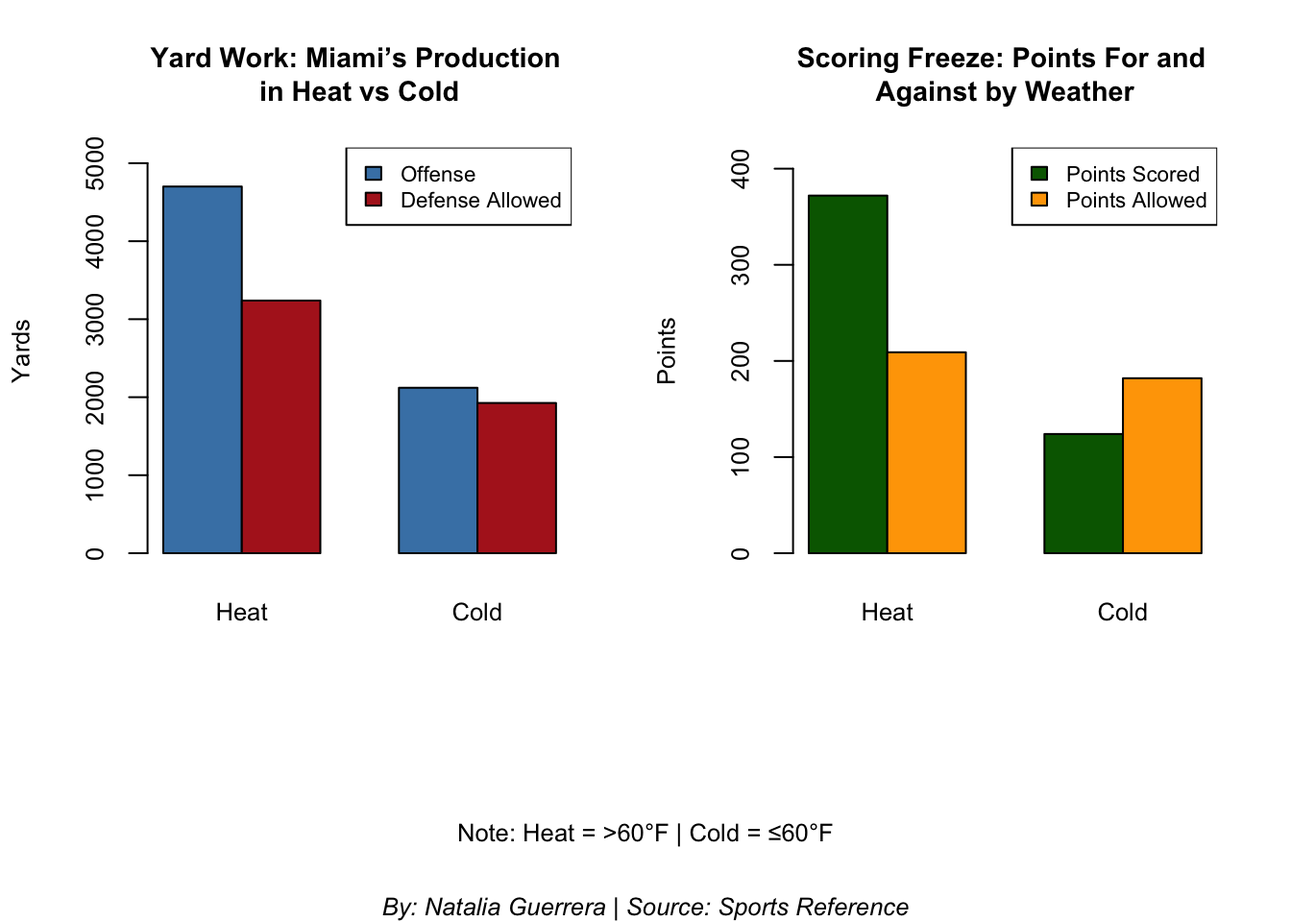
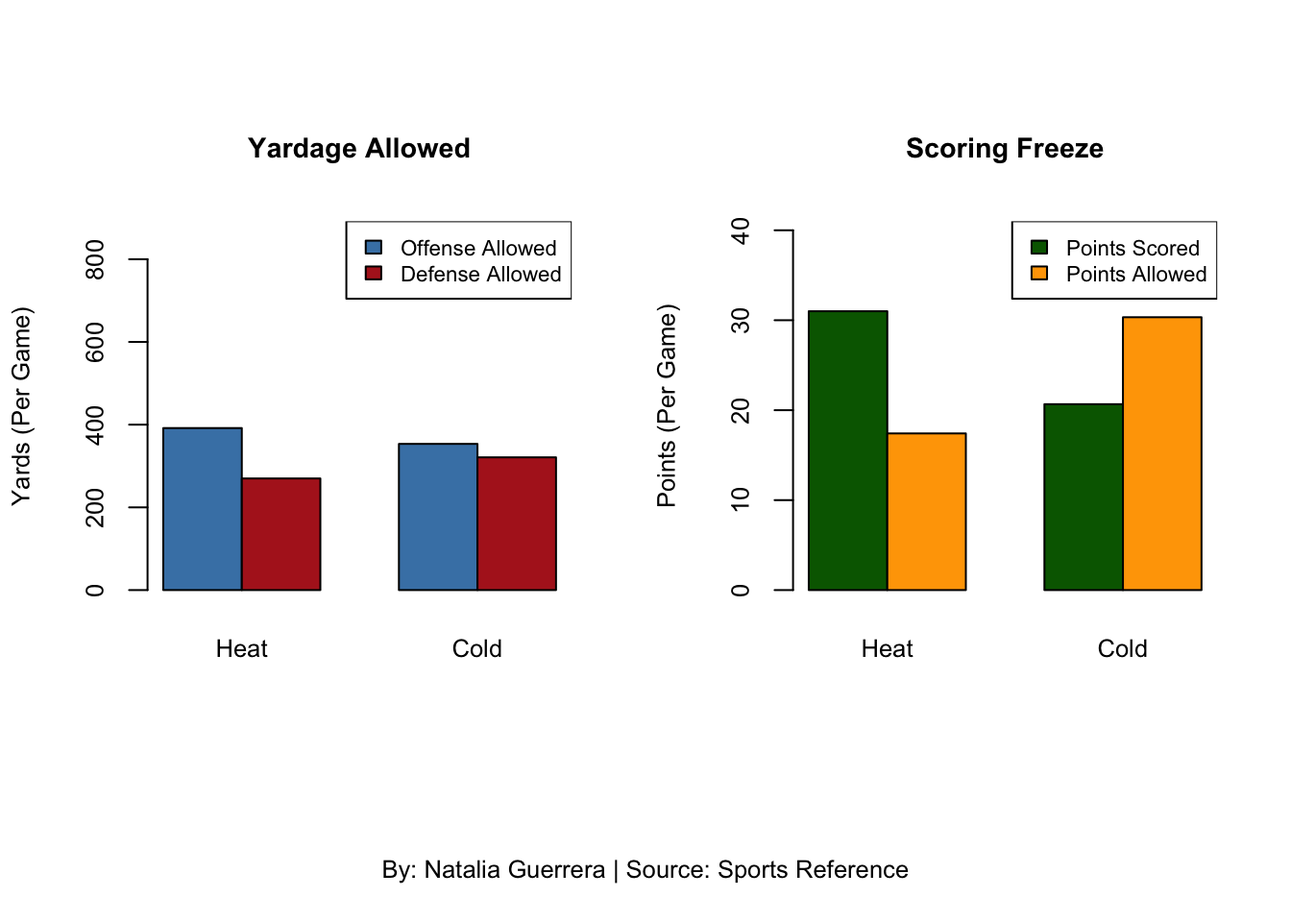
made change

diff --git a/posts/miami-dolphins-nfl/index2.html b/posts/miami-dolphins-nfl/index2.html
@@ -190,7 +190,7 @@ pre > code.sourceCode > span > a:first-child::before { text-decoration: underlin
 
 
 
-<p>The Miami Dolphins continue through their seasons known for their home-field advantage with the Florida heat. With blazing temperatures and clear skies, they looked unstoppable early on—putting up huge yardage and dominating opponents at home. But as the season cooled down, so did their production. The team that seemed untouchable in the sun began to struggle in colder weather conditions. As the playoffs loomed, a new question surfaced: were the Dolphins actually a bad weather fraud?</p>
+<p>The Miami Dolphins continue through their seasons known for their home-field advantage with the Florida heat. With blazing temperatures and clear skies, they looked unstoppable after dominating opponents when it is warm. As the season cooled down, so did their production. The team that seemed untouchable in the sun began to struggle in colder weather conditions. This brings up the question: Is Miami’s Offense Actually a Bad Weather Fraud?</p>
 <div class="cell">
 <details class="code-fold">
 <summary>Code</summary>
@@ -247,32 +247,38 @@ pre > code.sourceCode > span > a:first-child::before { text-decoration: underlin
 </div>
 </div>
 </div>
-<p>The line graph illustrates how weather impacts scoring by quarter. In good weather, teams score steadily across all four quarters, with noticeable peaks in the second. In contrast, bad weather suppresses scoring in the early quarters. Interestingly, there’s a spike in the fourth quarter during bad weather games—suggesting late-game urgency or defensive fatigue may influence outcomes despite poor conditions.</p>
+<p>The line graph illustrates how weather impacts scoring by quarter. In good weather, teams score steadily across all four quarters, with noticeable peaks in the second. In contrast, bad weather suppresses scoring in the early quarters. Interestingly, there’s a spike in the fourth quarter during bad weather games that suggest late-game urgency or defensive fatigue may influence outcomes despite poor conditions.</p>
 <div class="cell">
 <details class="code-fold">
 <summary>Code</summary>
-<div class="sourceCode cell-code" id="cb2"><pre class="sourceCode r code-with-copy"><code class="sourceCode r"><span id="cb2-1"><a href="#cb2-1" aria-hidden="true" tabindex="-1"></a>cold_weather_summary <span class="ot">&lt;-</span> <span class="fu">data.frame</span>(</span>
-<span id="cb2-2"><a href="#cb2-2" aria-hidden="true" tabindex="-1"></a>  <span class="at">Temperature_Range =</span> <span class="fu">c</span>(<span class="st">"≤ 40°F"</span>, <span class="st">"≤ 23°F"</span>),</span>
-<span id="cb2-3"><a href="#cb2-3" aria-hidden="true" tabindex="-1"></a>  <span class="at">Wins =</span> <span class="fu">c</span>(<span class="dv">0</span>, <span class="dv">3</span>),</span>
-<span id="cb2-4"><a href="#cb2-4" aria-hidden="true" tabindex="-1"></a>  <span class="at">Losses =</span> <span class="fu">c</span>(<span class="dv">11</span>, <span class="dv">7</span>)</span>
-<span id="cb2-5"><a href="#cb2-5" aria-hidden="true" tabindex="-1"></a>)</span>
-<span id="cb2-6"><a href="#cb2-6" aria-hidden="true" tabindex="-1"></a></span>
-<span id="cb2-7"><a href="#cb2-7" aria-hidden="true" tabindex="-1"></a><span class="fu">library</span>(tidyr)</span>
-<span id="cb2-8"><a href="#cb2-8" aria-hidden="true" tabindex="-1"></a>cold_weather_long <span class="ot">&lt;-</span> <span class="fu">pivot_longer</span>(cold_weather_summary, <span class="at">cols =</span> <span class="fu">c</span>(<span class="st">"Wins"</span>, <span class="st">"Losses"</span>),</span>
-<span id="cb2-9"><a href="#cb2-9" aria-hidden="true" tabindex="-1"></a>                                   <span class="at">names_to =</span> <span class="st">"Result"</span>, <span class="at">values_to =</span> <span class="st">"Games"</span>)</span>
-<span id="cb2-10"><a href="#cb2-10" aria-hidden="true" tabindex="-1"></a></span>
-<span id="cb2-11"><a href="#cb2-11" aria-hidden="true" tabindex="-1"></a><span class="fu">library</span>(ggplot2)</span>
-<span id="cb2-12"><a href="#cb2-12" aria-hidden="true" tabindex="-1"></a><span class="fu">ggplot</span>(cold_weather_long, <span class="fu">aes</span>(<span class="at">x =</span> Temperature_Range, <span class="at">y =</span> Games, <span class="at">fill =</span> Result)) <span class="sc">+</span></span>
-<span id="cb2-13"><a href="#cb2-13" aria-hidden="true" tabindex="-1"></a>  <span class="fu">geom_bar</span>(<span class="at">stat =</span> <span class="st">"identity"</span>, <span class="at">position =</span> <span class="st">"stack"</span>) <span class="sc">+</span></span>
-<span id="cb2-14"><a href="#cb2-14" aria-hidden="true" tabindex="-1"></a>  <span class="fu">scale_fill_manual</span>(<span class="at">values =</span> <span class="fu">c</span>(<span class="st">"Wins"</span> <span class="ot">=</span> <span class="st">"#008E97"</span>, <span class="st">"Losses"</span> <span class="ot">=</span> <span class="st">"#FC4C02"</span>)) <span class="sc">+</span></span>
-<span id="cb2-15"><a href="#cb2-15" aria-hidden="true" tabindex="-1"></a>  <span class="fu">labs</span>(<span class="at">title =</span> <span class="st">"Freezing the Fins: Miami’s Cold-Weather Curse"</span>,</span>
-<span id="cb2-16"><a href="#cb2-16" aria-hidden="true" tabindex="-1"></a>       <span class="at">subtitle =</span> <span class="st">"A look at how the Dolphins perform when temperatures </span></span>
-<span id="cb2-17"><a href="#cb2-17" aria-hidden="true" tabindex="-1"></a><span class="st">drop below comfort zone."</span>,</span>
-<span id="cb2-18"><a href="#cb2-18" aria-hidden="true" tabindex="-1"></a>       <span class="at">x =</span> <span class="st">"Temperature at Kickoff"</span>,</span>
-<span id="cb2-19"><a href="#cb2-19" aria-hidden="true" tabindex="-1"></a>       <span class="at">y =</span> <span class="st">"Number of Games"</span>,</span>
-<span id="cb2-20"><a href="#cb2-20" aria-hidden="true" tabindex="-1"></a>      <span class="at">caption =</span> <span class="st">"By Natalia Guerrera | Source: Sports Reference"</span>,</span>
-<span id="cb2-21"><a href="#cb2-21" aria-hidden="true" tabindex="-1"></a>       <span class="at">fill =</span> <span class="st">"Game Result"</span>) <span class="sc">+</span></span>
-<span id="cb2-22"><a href="#cb2-22" aria-hidden="true" tabindex="-1"></a>  <span class="fu">theme_minimal</span>(<span class="at">base_size =</span> <span class="dv">14</span>)</span></code><button title="Copy to Clipboard" class="code-copy-button"><i class="bi"></i></button></pre></div>
+<div class="sourceCode cell-code" id="cb2"><pre class="sourceCode r code-with-copy"><code class="sourceCode r"><span id="cb2-1"><a href="#cb2-1" aria-hidden="true" tabindex="-1"></a><span class="fu">library</span>(tidyr)</span>
+<span id="cb2-2"><a href="#cb2-2" aria-hidden="true" tabindex="-1"></a></span>
+<span id="cb2-3"><a href="#cb2-3" aria-hidden="true" tabindex="-1"></a>cold_weather_summary <span class="ot">&lt;-</span> <span class="fu">data.frame</span>(</span>
+<span id="cb2-4"><a href="#cb2-4" aria-hidden="true" tabindex="-1"></a>  <span class="at">Temperature_Range =</span> <span class="fu">c</span>(<span class="st">"45 degrees or less"</span>, <span class="st">"Greater than 45 degrees"</span>),</span>
+<span id="cb2-5"><a href="#cb2-5" aria-hidden="true" tabindex="-1"></a>  <span class="at">Wins =</span> <span class="fu">c</span>(<span class="dv">0</span>, <span class="dv">36</span>),</span>
+<span id="cb2-6"><a href="#cb2-6" aria-hidden="true" tabindex="-1"></a>  <span class="at">Losses =</span> <span class="fu">c</span>(<span class="dv">8</span>, <span class="dv">16</span>)</span>
+<span id="cb2-7"><a href="#cb2-7" aria-hidden="true" tabindex="-1"></a>)</span>
+<span id="cb2-8"><a href="#cb2-8" aria-hidden="true" tabindex="-1"></a></span>
+<span id="cb2-9"><a href="#cb2-9" aria-hidden="true" tabindex="-1"></a>cold_weather_long <span class="ot">&lt;-</span> <span class="fu">pivot_longer</span>(</span>
+<span id="cb2-10"><a href="#cb2-10" aria-hidden="true" tabindex="-1"></a>  cold_weather_summary,</span>
+<span id="cb2-11"><a href="#cb2-11" aria-hidden="true" tabindex="-1"></a>  <span class="at">cols =</span> <span class="fu">c</span>(<span class="st">"Wins"</span>, <span class="st">"Losses"</span>),</span>
+<span id="cb2-12"><a href="#cb2-12" aria-hidden="true" tabindex="-1"></a>  <span class="at">names_to =</span> <span class="st">"Result"</span>,</span>
+<span id="cb2-13"><a href="#cb2-13" aria-hidden="true" tabindex="-1"></a>  <span class="at">values_to =</span> <span class="st">"Games"</span></span>
+<span id="cb2-14"><a href="#cb2-14" aria-hidden="true" tabindex="-1"></a>)</span>
+<span id="cb2-15"><a href="#cb2-15" aria-hidden="true" tabindex="-1"></a></span>
+<span id="cb2-16"><a href="#cb2-16" aria-hidden="true" tabindex="-1"></a><span class="fu">ggplot</span>(cold_weather_long, <span class="fu">aes</span>(<span class="at">x =</span> Temperature_Range, <span class="at">y =</span> Games, <span class="at">fill =</span> Result)) <span class="sc">+</span></span>
+<span id="cb2-17"><a href="#cb2-17" aria-hidden="true" tabindex="-1"></a>  <span class="fu">geom_bar</span>(<span class="at">stat =</span> <span class="st">"identity"</span>, <span class="at">position =</span> <span class="st">"stack"</span>) <span class="sc">+</span></span>
+<span id="cb2-18"><a href="#cb2-18" aria-hidden="true" tabindex="-1"></a>  <span class="fu">scale_fill_manual</span>(<span class="at">values =</span> <span class="fu">c</span>(<span class="st">"Wins"</span> <span class="ot">=</span> <span class="st">"#008E97"</span>, <span class="st">"Losses"</span> <span class="ot">=</span> <span class="st">"#FC4C02"</span>)) <span class="sc">+</span></span>
+<span id="cb2-19"><a href="#cb2-19" aria-hidden="true" tabindex="-1"></a>  <span class="fu">labs</span>(</span>
+<span id="cb2-20"><a href="#cb2-20" aria-hidden="true" tabindex="-1"></a>    <span class="at">title =</span> <span class="st">"Tua Tagovailoa’s Cold Weather Struggles"</span>,</span>
+<span id="cb2-21"><a href="#cb2-21" aria-hidden="true" tabindex="-1"></a>    <span class="at">subtitle =</span> <span class="st">"Tua is 0-8 when the temperature is 45°F or colder and </span></span>
+<span id="cb2-22"><a href="#cb2-22" aria-hidden="true" tabindex="-1"></a><span class="st">36-16 when it's greater than 45°F."</span>,</span>
+<span id="cb2-23"><a href="#cb2-23" aria-hidden="true" tabindex="-1"></a>    <span class="at">x =</span> <span class="st">"Temperature at Kickoff"</span>,</span>
+<span id="cb2-24"><a href="#cb2-24" aria-hidden="true" tabindex="-1"></a>    <span class="at">y =</span> <span class="st">"Number of Games"</span>,</span>
+<span id="cb2-25"><a href="#cb2-25" aria-hidden="true" tabindex="-1"></a>    <span class="at">caption =</span> <span class="st">"By Natalia Guerrera | Source: Sports Reference"</span>,</span>
+<span id="cb2-26"><a href="#cb2-26" aria-hidden="true" tabindex="-1"></a>    <span class="at">fill =</span> <span class="st">"Game Result"</span></span>
+<span id="cb2-27"><a href="#cb2-27" aria-hidden="true" tabindex="-1"></a>  ) <span class="sc">+</span></span>
+<span id="cb2-28"><a href="#cb2-28" aria-hidden="true" tabindex="-1"></a>  <span class="fu">theme_minimal</span>(<span class="at">base_size =</span> <span class="dv">14</span>)</span></code><button title="Copy to Clipboard" class="code-copy-button"><i class="bi"></i></button></pre></div>
 </details>
 <div class="cell-output-display">
 <div>
@@ -282,7 +288,7 @@ pre > code.sourceCode > span > a:first-child::before { text-decoration: underlin
 </div>
 </div>
 </div>
-<p>This graph highlights Tua Tagovailoa struggles in cold weather, particularly when temperatures dip below 40°F. The Dolphins have yet to win a game in these freezing conditions (0–11) and fare only slightly better when it’s extremely cold (≤ 23°F), with 3 wins and 7 losses. The data reinforces that Miami’s performance drops significantly as the thermometer does.</p>
+<p>This graph higlights Tua Tagavailoa’s struggle when it comes to weather that is less than 45 degrees at kickoff. In cold conditions, he has yet to win a game, going 0-8 over his career. When the temperature is greater than 45 degrees, Tagovailoa has a strong 36-16 record, showing a clear performance gap due to climate.</p>
 <div class="cell">
 <details class="code-fold">
 <summary>Code</summary>
@@ -293,42 +299,41 @@ pre > code.sourceCode > span > a:first-child::before { text-decoration: underlin
 <span id="cb3-5"><a href="#cb3-5" aria-hidden="true" tabindex="-1"></a>points_scored <span class="ot">&lt;-</span> <span class="fu">c</span>(<span class="dv">372</span>, <span class="dv">124</span>)</span>
 <span id="cb3-6"><a href="#cb3-6" aria-hidden="true" tabindex="-1"></a>points_allowed <span class="ot">&lt;-</span> <span class="fu">c</span>(<span class="dv">209</span>, <span class="dv">182</span>)</span>
 <span id="cb3-7"><a href="#cb3-7" aria-hidden="true" tabindex="-1"></a></span>
-<span id="cb3-8"><a href="#cb3-8" aria-hidden="true" tabindex="-1"></a><span class="fu">par</span>(<span class="at">mfrow =</span> <span class="fu">c</span>(<span class="dv">1</span>, <span class="dv">2</span>), <span class="at">oma =</span> <span class="fu">c</span>(<span class="dv">4</span>, <span class="dv">0</span>, <span class="dv">2</span>, <span class="dv">0</span>), <span class="at">mar =</span> <span class="fu">c</span>(<span class="dv">5</span>, <span class="dv">4</span>, <span class="dv">4</span>, <span class="dv">2</span>), <span class="at">cex.main =</span> <span class="fl">0.9</span>, <span class="at">cex.lab =</span> <span class="fl">0.8</span>, <span class="at">cex.axis =</span> <span class="fl">0.8</span>)</span>
-<span id="cb3-9"><a href="#cb3-9" aria-hidden="true" tabindex="-1"></a><span class="fu">par</span>(<span class="at">mfrow =</span> <span class="fu">c</span>(<span class="dv">1</span>, <span class="dv">2</span>), <span class="at">mar =</span> <span class="fu">c</span>(<span class="dv">5</span>, <span class="dv">4</span>, <span class="dv">4</span>, <span class="dv">2</span>), <span class="at">oma =</span> <span class="fu">c</span>(<span class="dv">5</span>, <span class="dv">0</span>, <span class="dv">0</span>, <span class="dv">0</span>)) </span>
-<span id="cb3-10"><a href="#cb3-10" aria-hidden="true" tabindex="-1"></a></span>
-<span id="cb3-11"><a href="#cb3-11" aria-hidden="true" tabindex="-1"></a></span>
-<span id="cb3-12"><a href="#cb3-12" aria-hidden="true" tabindex="-1"></a><span class="co"># Barplot 1: Yards</span></span>
-<span id="cb3-13"><a href="#cb3-13" aria-hidden="true" tabindex="-1"></a><span class="fu">barplot</span>(</span>
-<span id="cb3-14"><a href="#cb3-14" aria-hidden="true" tabindex="-1"></a>  <span class="fu">rbind</span>(offense_yards, defense_yards),</span>
-<span id="cb3-15"><a href="#cb3-15" aria-hidden="true" tabindex="-1"></a>  <span class="at">beside =</span> <span class="cn">TRUE</span>,</span>
-<span id="cb3-16"><a href="#cb3-16" aria-hidden="true" tabindex="-1"></a>  <span class="at">col =</span> <span class="fu">c</span>(<span class="st">"steelblue"</span>, <span class="st">"firebrick"</span>),</span>
-<span id="cb3-17"><a href="#cb3-17" aria-hidden="true" tabindex="-1"></a>  <span class="at">names.arg =</span> weather,</span>
-<span id="cb3-18"><a href="#cb3-18" aria-hidden="true" tabindex="-1"></a>  <span class="at">ylim =</span> <span class="fu">c</span>(<span class="dv">0</span>, <span class="fu">max</span>(offense_yards) <span class="sc">+</span> <span class="dv">500</span>),</span>
-<span id="cb3-19"><a href="#cb3-19" aria-hidden="true" tabindex="-1"></a>  <span class="at">main =</span> <span class="st">"Yard Work: Miami’s Production </span></span>
-<span id="cb3-20"><a href="#cb3-20" aria-hidden="true" tabindex="-1"></a><span class="st">in Heat vs Cold"</span>,</span>
-<span id="cb3-21"><a href="#cb3-21" aria-hidden="true" tabindex="-1"></a>  <span class="at">ylab =</span> <span class="st">"Yards"</span>,</span>
-<span id="cb3-22"><a href="#cb3-22" aria-hidden="true" tabindex="-1"></a>  <span class="at">cex.names =</span> <span class="fl">0.8</span></span>
-<span id="cb3-23"><a href="#cb3-23" aria-hidden="true" tabindex="-1"></a>)</span>
-<span id="cb3-24"><a href="#cb3-24" aria-hidden="true" tabindex="-1"></a><span class="fu">legend</span>(<span class="st">"topright"</span>, <span class="at">legend =</span> <span class="fu">c</span>(<span class="st">"Offense"</span>, <span class="st">"Defense Allowed"</span>), <span class="at">fill =</span> <span class="fu">c</span>(<span class="st">"steelblue"</span>, <span class="st">"firebrick"</span>), <span class="at">cex =</span> <span class="fl">0.7</span>)</span>
-<span id="cb3-25"><a href="#cb3-25" aria-hidden="true" tabindex="-1"></a></span>
-<span id="cb3-26"><a href="#cb3-26" aria-hidden="true" tabindex="-1"></a><span class="co"># Barplot 2: Points</span></span>
-<span id="cb3-27"><a href="#cb3-27" aria-hidden="true" tabindex="-1"></a><span class="fu">barplot</span>(</span>
-<span id="cb3-28"><a href="#cb3-28" aria-hidden="true" tabindex="-1"></a>  <span class="fu">rbind</span>(points_scored, points_allowed),</span>
-<span id="cb3-29"><a href="#cb3-29" aria-hidden="true" tabindex="-1"></a>  <span class="at">beside =</span> <span class="cn">TRUE</span>,</span>
-<span id="cb3-30"><a href="#cb3-30" aria-hidden="true" tabindex="-1"></a>  <span class="at">col =</span> <span class="fu">c</span>(<span class="st">"darkgreen"</span>, <span class="st">"orange"</span>),</span>
-<span id="cb3-31"><a href="#cb3-31" aria-hidden="true" tabindex="-1"></a>  <span class="at">names.arg =</span> weather,</span>
-<span id="cb3-32"><a href="#cb3-32" aria-hidden="true" tabindex="-1"></a>  <span class="at">ylim =</span> <span class="fu">c</span>(<span class="dv">0</span>, <span class="fu">max</span>(points_scored) <span class="sc">+</span> <span class="dv">50</span>),</span>
-<span id="cb3-33"><a href="#cb3-33" aria-hidden="true" tabindex="-1"></a>  <span class="at">main =</span> <span class="st">"Scoring Freeze: Points For and </span></span>
-<span id="cb3-34"><a href="#cb3-34" aria-hidden="true" tabindex="-1"></a><span class="st">Against by Weather"</span>,</span>
-<span id="cb3-35"><a href="#cb3-35" aria-hidden="true" tabindex="-1"></a>  <span class="at">ylab =</span> <span class="st">"Points"</span>,</span>
+<span id="cb3-8"><a href="#cb3-8" aria-hidden="true" tabindex="-1"></a>games_heat <span class="ot">&lt;-</span> <span class="dv">12</span>     </span>
+<span id="cb3-9"><a href="#cb3-9" aria-hidden="true" tabindex="-1"></a>games_cold <span class="ot">&lt;-</span> <span class="dv">6</span>     </span>
+<span id="cb3-10"><a href="#cb3-10" aria-hidden="true" tabindex="-1"></a>avg_offense_yards <span class="ot">&lt;-</span> <span class="fu">c</span>(offense_yards[<span class="dv">1</span>] <span class="sc">/</span> games_heat, offense_yards[<span class="dv">2</span>] <span class="sc">/</span> games_cold)</span>
+<span id="cb3-11"><a href="#cb3-11" aria-hidden="true" tabindex="-1"></a>avg_defense_yards <span class="ot">&lt;-</span> <span class="fu">c</span>(defense_yards[<span class="dv">1</span>] <span class="sc">/</span> games_heat, defense_yards[<span class="dv">2</span>] <span class="sc">/</span> games_cold)</span>
+<span id="cb3-12"><a href="#cb3-12" aria-hidden="true" tabindex="-1"></a>avg_points_scored <span class="ot">&lt;-</span> <span class="fu">c</span>(points_scored[<span class="dv">1</span>] <span class="sc">/</span> games_heat, points_scored[<span class="dv">2</span>] <span class="sc">/</span> games_cold)</span>
+<span id="cb3-13"><a href="#cb3-13" aria-hidden="true" tabindex="-1"></a>avg_points_allowed <span class="ot">&lt;-</span> <span class="fu">c</span>(points_allowed[<span class="dv">1</span>] <span class="sc">/</span> games_heat, points_allowed[<span class="dv">2</span>] <span class="sc">/</span> games_cold)</span>
+<span id="cb3-14"><a href="#cb3-14" aria-hidden="true" tabindex="-1"></a><span class="fu">par</span>(<span class="at">mfrow =</span> <span class="fu">c</span>(<span class="dv">1</span>, <span class="dv">2</span>), <span class="at">oma =</span> <span class="fu">c</span>(<span class="dv">4</span>, <span class="dv">0</span>, <span class="dv">2</span>, <span class="dv">0</span>), <span class="at">mar =</span> <span class="fu">c</span>(<span class="dv">5</span>, <span class="dv">4</span>, <span class="dv">4</span>, <span class="dv">2</span>), <span class="at">cex.main =</span> <span class="fl">0.9</span>, <span class="at">cex.lab =</span> <span class="fl">0.8</span>, <span class="at">cex.axis =</span> <span class="fl">0.8</span>)</span>
+<span id="cb3-15"><a href="#cb3-15" aria-hidden="true" tabindex="-1"></a></span>
+<span id="cb3-16"><a href="#cb3-16" aria-hidden="true" tabindex="-1"></a><span class="fu">barplot</span>(</span>
+<span id="cb3-17"><a href="#cb3-17" aria-hidden="true" tabindex="-1"></a>  <span class="fu">rbind</span>(avg_offense_yards, avg_defense_yards),</span>
+<span id="cb3-18"><a href="#cb3-18" aria-hidden="true" tabindex="-1"></a>  <span class="at">beside =</span> <span class="cn">TRUE</span>,</span>
+<span id="cb3-19"><a href="#cb3-19" aria-hidden="true" tabindex="-1"></a>  <span class="at">col =</span> <span class="fu">c</span>(<span class="st">"steelblue"</span>, <span class="st">"firebrick"</span>),</span>
+<span id="cb3-20"><a href="#cb3-20" aria-hidden="true" tabindex="-1"></a>  <span class="at">names.arg =</span> weather,</span>
+<span id="cb3-21"><a href="#cb3-21" aria-hidden="true" tabindex="-1"></a>  <span class="at">ylim =</span> <span class="fu">c</span>(<span class="dv">0</span>, <span class="fu">max</span>(avg_offense_yards) <span class="sc">+</span> <span class="dv">500</span>),</span>
+<span id="cb3-22"><a href="#cb3-22" aria-hidden="true" tabindex="-1"></a>  <span class="at">main =</span> <span class="st">"Yardage Allowed"</span>,</span>
+<span id="cb3-23"><a href="#cb3-23" aria-hidden="true" tabindex="-1"></a>  <span class="at">ylab =</span> <span class="st">"Yards (Per Game)"</span>,</span>
+<span id="cb3-24"><a href="#cb3-24" aria-hidden="true" tabindex="-1"></a>  <span class="at">cex.names =</span> <span class="fl">0.8</span></span>
+<span id="cb3-25"><a href="#cb3-25" aria-hidden="true" tabindex="-1"></a>)</span>
+<span id="cb3-26"><a href="#cb3-26" aria-hidden="true" tabindex="-1"></a><span class="fu">legend</span>(<span class="st">"topright"</span>, <span class="at">legend =</span> <span class="fu">c</span>(<span class="st">"Offense Allowed"</span>, <span class="st">"Defense Allowed"</span>), <span class="at">fill =</span> <span class="fu">c</span>(<span class="st">"steelblue"</span>, <span class="st">"firebrick"</span>), <span class="at">cex =</span> <span class="fl">0.7</span>)</span>
+<span id="cb3-27"><a href="#cb3-27" aria-hidden="true" tabindex="-1"></a></span>
+<span id="cb3-28"><a href="#cb3-28" aria-hidden="true" tabindex="-1"></a><span class="fu">barplot</span>(</span>
+<span id="cb3-29"><a href="#cb3-29" aria-hidden="true" tabindex="-1"></a>  <span class="fu">rbind</span>(avg_points_scored, avg_points_allowed),</span>
+<span id="cb3-30"><a href="#cb3-30" aria-hidden="true" tabindex="-1"></a>  <span class="at">beside =</span> <span class="cn">TRUE</span>,</span>
+<span id="cb3-31"><a href="#cb3-31" aria-hidden="true" tabindex="-1"></a>  <span class="at">col =</span> <span class="fu">c</span>(<span class="st">"darkgreen"</span>, <span class="st">"orange"</span>),</span>
+<span id="cb3-32"><a href="#cb3-32" aria-hidden="true" tabindex="-1"></a>  <span class="at">names.arg =</span> weather,</span>
+<span id="cb3-33"><a href="#cb3-33" aria-hidden="true" tabindex="-1"></a>  <span class="at">ylim =</span> <span class="fu">c</span>(<span class="dv">0</span>, <span class="fu">max</span>(avg_points_scored) <span class="sc">+</span> <span class="dv">10</span>),</span>
+<span id="cb3-34"><a href="#cb3-34" aria-hidden="true" tabindex="-1"></a>  <span class="at">main =</span> <span class="st">"Scoring Freeze"</span>,</span>
+<span id="cb3-35"><a href="#cb3-35" aria-hidden="true" tabindex="-1"></a>  <span class="at">ylab =</span> <span class="st">"Points (Per Game)"</span>,</span>
 <span id="cb3-36"><a href="#cb3-36" aria-hidden="true" tabindex="-1"></a>  <span class="at">cex.names =</span> <span class="fl">0.8</span></span>
 <span id="cb3-37"><a href="#cb3-37" aria-hidden="true" tabindex="-1"></a>)</span>
 <span id="cb3-38"><a href="#cb3-38" aria-hidden="true" tabindex="-1"></a><span class="fu">legend</span>(<span class="st">"topright"</span>, <span class="at">legend =</span> <span class="fu">c</span>(<span class="st">"Points Scored"</span>, <span class="st">"Points Allowed"</span>), <span class="at">fill =</span> <span class="fu">c</span>(<span class="st">"darkgreen"</span>, <span class="st">"orange"</span>), <span class="at">cex =</span> <span class="fl">0.7</span>)</span>
 <span id="cb3-39"><a href="#cb3-39" aria-hidden="true" tabindex="-1"></a></span>
-<span id="cb3-40"><a href="#cb3-40" aria-hidden="true" tabindex="-1"></a><span class="co"># Shared footnote</span></span>
-<span id="cb3-41"><a href="#cb3-41" aria-hidden="true" tabindex="-1"></a><span class="fu">mtext</span>(<span class="st">"Note: Heat = &gt;60°F | Cold = ≤60°F"</span>, <span class="at">side =</span> <span class="dv">1</span>, <span class="at">outer =</span> <span class="cn">TRUE</span>, <span class="at">line =</span> <span class="dv">2</span>, <span class="at">cex =</span> <span class="fl">0.8</span>)</span>
-<span id="cb3-42"><a href="#cb3-42" aria-hidden="true" tabindex="-1"></a><span class="fu">mtext</span>(<span class="st">"By: Natalia Guerrera | Source: Sports Reference"</span>, </span>
-<span id="cb3-43"><a href="#cb3-43" aria-hidden="true" tabindex="-1"></a>      <span class="at">side =</span> <span class="dv">1</span>, <span class="at">outer =</span> <span class="cn">TRUE</span>, <span class="at">line =</span> <span class="dv">4</span>, <span class="at">cex =</span> <span class="fl">0.8</span>, <span class="at">font =</span> <span class="dv">3</span>)</span></code><button title="Copy to Clipboard" class="code-copy-button"><i class="bi"></i></button></pre></div>
+<span id="cb3-40"><a href="#cb3-40" aria-hidden="true" tabindex="-1"></a><span class="fu">mtext</span>(<span class="st">"By: Natalia Guerrera | Source: Sports Reference"</span>, <span class="at">side =</span> <span class="dv">1</span>, <span class="at">outer =</span> <span class="cn">TRUE</span>, <span class="at">line =</span> <span class="dv">2</span>, <span class="at">cex =</span> <span class="fl">0.8</span>)</span>
+<span id="cb3-41"><a href="#cb3-41" aria-hidden="true" tabindex="-1"></a><span class="fu">mtext</span>(<span class="st">"By: Natalia Guerrera | Source: Sports Reference"</span>, </span>
+<span id="cb3-42"><a href="#cb3-42" aria-hidden="true" tabindex="-1"></a>      <span class="at">side =</span> <span class="dv">1</span>, <span class="at">outer =</span> <span class="cn">TRUE</span>, <span class="at">line =</span> <span class="dv">4</span>, <span class="at">cex =</span> <span class="fl">0.8</span>, <span class="at">font =</span> <span class="dv">3</span>)</span></code><button title="Copy to Clipboard" class="code-copy-button"><i class="bi"></i></button></pre></div>
 </details>
 <div class="cell-output-display">
 <div>
@@ -339,7 +344,7 @@ pre > code.sourceCode > span > a:first-child::before { text-decoration: underlin
 </div>
 </div>
 <p>This graph shows that the Miami offense performs significantly better in warm weather, gaining more yards and scoring more points compared to cold conditions. Meanwhile, their defense allows slightly fewer yards in cold games but gives up nearly the same number of points. Overall, the data suggests that Miami struggles offensively in colder weather, highlighting a difference in performance based on temperature.</p>
-<p>The Miami Dolphins struggle significantly in cold weather, both in terms of game outcomes and offensive production. The stacked bar charts show sharp declines in yards gained and points scored in colder conditions, while defensive performance remains relatively steady—suggesting that offensive struggles are the primary issue. The win-loss chart further confirms this, with Miami winning almost no games in temperatures at or below 40°F. The line graph showed an interesting twist that scoring tends to spike in the fourth quarter even in bad weather, possibly due to late-game pressure or adjustments.</p>
+<p>The Miami Dolphins struggle significantly in cold weather, both in terms of game outcomes and offensive production. The offensive production is the big struggle when it comes to winning games that have a colder enviroment. Looking at Tua Tagovailoa we see that he does not thrive in cold weather ultimately hurting the rest of the teams performance.</p>
 <p>Altogether, the data supports the claim that cold weather hurts Miami’s overall performance, especially offensively. The consistent trends across this data support that Miami’s reputation for underperforming in the cold is the truth.</p>
 
 

diff --git a/index.html b/index.html
@@ -205,7 +205,7 @@ window.Quarto = {
 
 <div class="quarto-listing quarto-listing-container-default" id="listing-listing">
 <div class="list quarto-listing-default">
-<div class="quarto-post image-right" data-index="0" data-categories="miami,dolphins,nfl" data-listing-date-sort="1746075600000" data-listing-file-modified-sort="1746397368648" data-listing-date-modified-sort="NaN" data-listing-reading-time-sort="5" data-listing-word-count-sort="984">
+<div class="quarto-post image-right" data-index="0" data-categories="miami,dolphins,nfl" data-listing-date-sort="1746075600000" data-listing-file-modified-sort="1746403948206" data-listing-date-modified-sort="NaN" data-listing-reading-time-sort="5" data-listing-word-count-sort="927">
 <div class="thumbnail">
 <p><a href="./posts/miami-dolphins-nfl/index2.html" class="no-external"></a></p><a href="./posts/miami-dolphins-nfl/index2.html" class="no-external">
 <p><img loading="lazy" src="./posts/miami-dolphins-nfl/image.png" class="thumbnail-image"></p>
